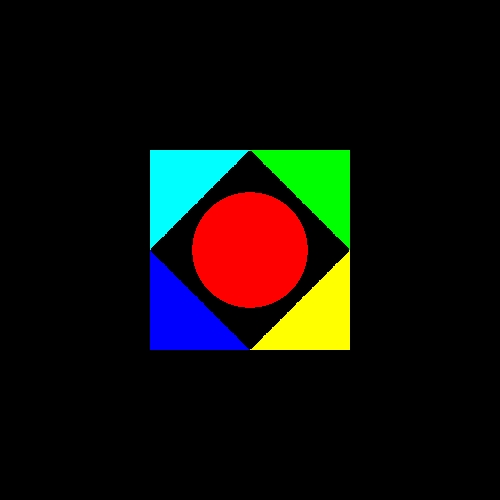
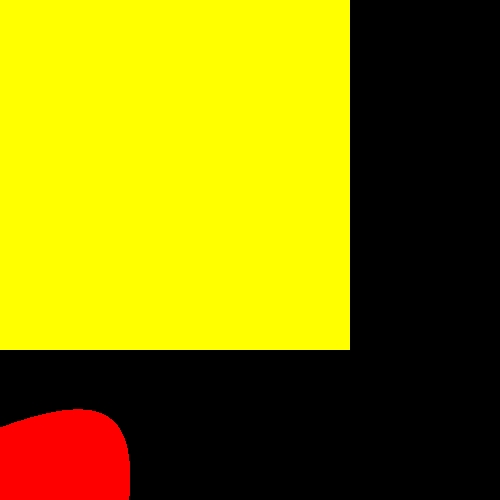
Versioning

diff --git a/src/Geometries/Sphere.java b/src/Geometries/Sphere.java
@@ -1,4 +1,5 @@
 package Geometries;
+
 import Primitives.Point3D;
 import Primitives.Ray;
 import Primitives.Vector;
@@ -25,13 +26,13 @@ public class Sphere extends Geometry {
         this._emission = emission;
     }
 
-    public Sphere(){
+    public Sphere() {
         this._center = new Point3D();
         this._radius = 0.0;
         this._emission = Color.black;
     }
 
-    public Sphere(Sphere otherSphere){
+    public Sphere(Sphere otherSphere) {
         this._center = otherSphere.getCenter();
         this._radius = otherSphere.getRadius();
         this._emission = otherSphere.getEmission();
@@ -47,7 +48,7 @@ public class Sphere extends Geometry {
     }
 
     public Color getEmission() {
-        return new Color(_emission.getRed(),_emission.getGreen(), _emission.getBlue());
+        return new Color(_emission.getRed(), _emission.getGreen(), _emission.getBlue());
     }
 
     //setters
@@ -59,66 +60,98 @@ public class Sphere extends Geometry {
         this._radius = _radius;
     }
 
-    public void setEmission(Color newEmission){
+    public void setEmission(Color newEmission) {
         this._emission = newEmission;
     }
 
-    public void setEmission(int r, int g, int b){
-        this._emission = new Color(r,g,b);
+    public void setEmission(int r, int g, int b) {
+        this._emission = new Color(r, g, b);
     }
 
     //edit
-    public List<GeoPoint> findIntersections(Ray ray){
-        List<GeoPoint> points = new ArrayList<GeoPoint>();
-        double th = 0;
-        Vector v = ray.getDirection().normalize();                      //normalized ray
-        Point3D p0 = ray.get00P();                                      //camera
-        Vector u = _center.subtract(p0);                                //O - P0
-        double tm = v.dotProduct(u);                                    //v*u
-        double d = Math.sqrt(u.length()*u.length()-tm*tm);              //sqrt  of (|u|^2 - tm^2)
+    public List<GeoPoint> findIntersections(Ray ray) {
+//        List<GeoPoint> points = new ArrayList<GeoPoint>();
+//        double th = 0;
+//        Vector v = ray.getDirection().normalize();                      //normalized ray
+//        Point3D p0 = ray.get00P();                                      //camera
+//        Vector u = _center.subtract(p0);                                //O - P0
+//        double tm = v.dotProduct(u);                                    //v*u
+//        double d = Math.sqrt(u.length()*u.length()-tm*tm);              //sqrt  of (|u|^2 - tm^2)
+//
+//        if(d > _radius){
+//            return null;
+//        } else if(d == _radius){
+//            double t1 = tm;
+//            if(t1>0){
+//                Vector t1MultiplyV = v.scale(t1);                        //t*v
+//                Point3D p = p0.add(t1MultiplyV);                         //P = P0 + t*v
+//                points.add(new GeoPoint(this,p));
+//            }
+//        } else if(d < _radius){
+//            th = Math.sqrt(Math.pow(_radius,2) - Math.pow(d,2));         //th = sqrt(r^2-tm^2)
+//            double t1 = tm+th;
+//            double t2 = tm-th;
+//            if(t1 > 0){
+//                Vector t1MultiplyV = v.scale(t1);                        //t*v
+//                Point3D p = p0.add(t1MultiplyV);                         //P = P0 + t*v
+//                points.add(new GeoPoint(this,p));
+//            }
+//            if(t2 > 0){
+//                Vector t2MultiplyV = v.scale(t2);                        //t*v
+//                Point3D p = p0.add(t2MultiplyV);                         //P = P0 + t*v
+//                points.add(new GeoPoint(this,p));
+//            }
+//        }
+//
+//        if(points.size() == 0){                                          //in case there's no points in the list
+//            return null;
+//        }
+//
+//        return points;
 
-        if(d > _radius){
+
+        List<GeoPoint> points = new ArrayList<>();
+        Point3D cameraOrigin = ray.get00P();
+        Vector cameraVector = ray.getDirection().normalize();
+        Vector vectorU = this._center.subtract(cameraOrigin);
+        double tm = cameraVector.dotProduct(vectorU);
+        double d = Math.sqrt((vectorU.length()*vectorU.length()) - tm*tm);
+        if (d > _radius) {
             return null;
-        } else if(d == _radius){
-            double t1 = tm;
-            if(t1>0){
-                Vector t1MultiplyV = v.scale(t1);                        //t*v
-                Point3D p = p0.add(t1MultiplyV);                         //P = P0 + t*v
-                points.add(new GeoPoint(this,p));
+        } else if (d == _radius) {
+            if (tm > 0) {
+                Point3D outerPoint = cameraOrigin.add(cameraVector.scale(tm));
+                points.add(new GeoPoint(this, outerPoint));
             }
-        } else if(d < _radius){
-            th = Math.sqrt(Math.pow(_radius,2) - Math.pow(d,2));         //th = sqrt(r^2-tm^2)
-            double t1 = tm+th;
-            double t2 = tm-th;
-            if(t1 > 0){
-                Vector t1MultiplyV = v.scale(t1);                        //t*v
-                Point3D p = p0.add(t1MultiplyV);                         //P = P0 + t*v
-                points.add(new GeoPoint(this,p));
+        } else {
+            double th = Math.sqrt(_radius*_radius - d*d);
+            double t1 = tm + th;
+            double t2 = tm - th;
+            if (t1 > 0) {
+                Point3D p1 = cameraOrigin.add(cameraVector.scale(t1));
+                points.add(new GeoPoint(this, p1));
             }
-            if(t2 > 0){
-                Vector t2MultiplyV = v.scale(t2);                        //t*v
-                Point3D p = p0.add(t2MultiplyV);                         //P = P0 + t*v
-                points.add(new GeoPoint(this,p));
+            if (t2 > 0) {
+                Point3D p2 = cameraOrigin.add(cameraVector.scale(t2));
+                points.add(new GeoPoint(this, p2));
             }
         }
-
-        if(points.size() == 0){                                          //in case there's no points in the list
+        if (points.size() == 0)
             return null;
-        }
-
         return points;
+
     }
 
-    public Vector getNormal(Point3D point){
+    public Vector getNormal(Point3D point) {
         return new Vector(point.subtract(_center));
     }
 
     //equal method override
     @Override
     public boolean equals(Object otherSphere) {
-        return (this._center.equals(((Sphere)otherSphere)._center)&&
-                this._radius==((Sphere)otherSphere)._radius&&
-                this._emission==((Sphere)otherSphere)._emission);
+        return (this._center.equals(((Sphere) otherSphere)._center) &&
+                this._radius == ((Sphere) otherSphere)._radius &&
+                this._emission == ((Sphere) otherSphere)._emission);
     }
 
     @Override

diff --git a/src/Unittests/TestRenderer.java b/src/Unittests/TestRenderer.java
@@ -24,7 +24,7 @@ class TestRenderer {
         scene.setScreenDistance(100) ;
         scene.setBackground(new Color(0,0,0));;
 
-        scene.addGeometry(new Sphere( new Point3D(0, 0, 100),50,new Color(255,0,0)));
+        scene.addGeometry(new Sphere( new Point3D(0, 50, 100),50,new Color(255,0,0)));
 
         scene.addGeometry(new Triangle(new Point3D(100, 0, 100), new Point3D(0, 100, 100), new Point3D(100, 100, 100),new Color(255,255,0)));
         scene.addGeometry(new Triangle(new Point3D(100, 0, 100), new Point3D(0, -100, 100), new Point3D(100, -100, 100),new Color(0,255,0)));
